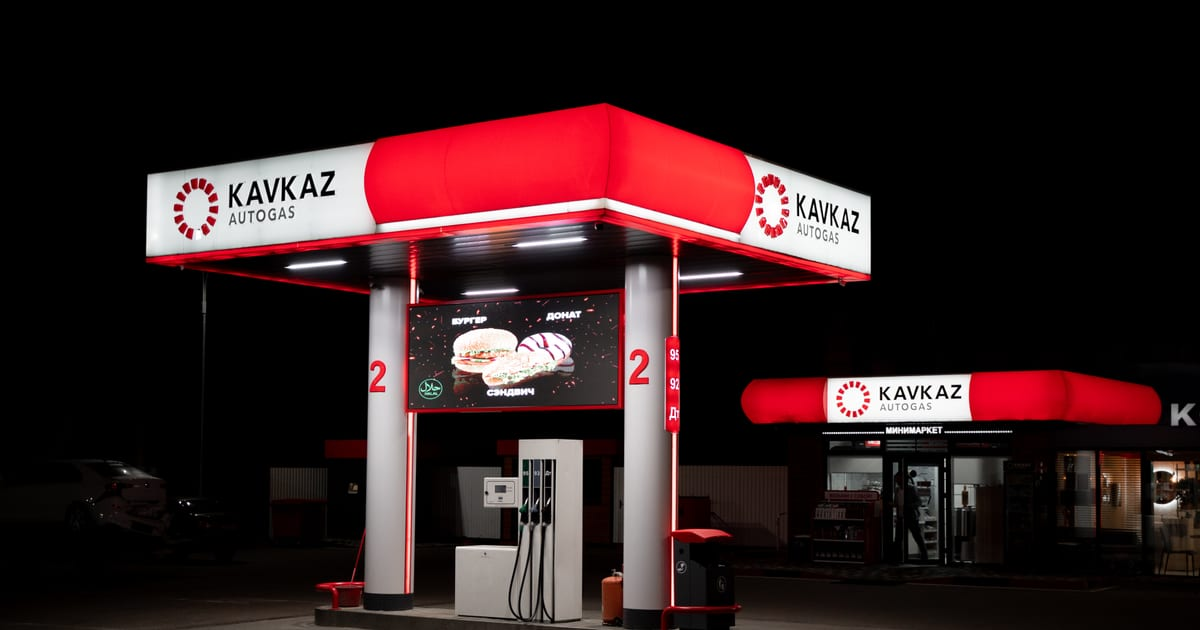
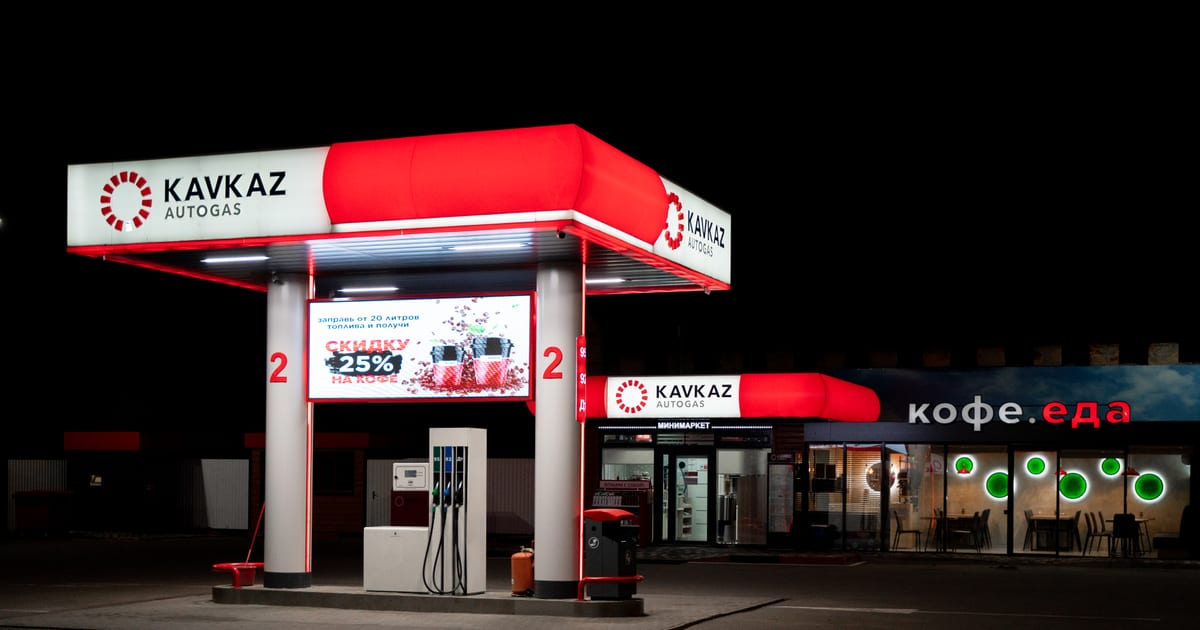
Новое hero-фото: станция с минимаркетом «кофе.еда» ночью
Исходник 7544px/16,6МБ → 2400px/235КБ; OG-изображение для соцсетей
перегенерировано из нового кадра; точка фокуса смещена к навесу
для корректного кадрирования на мобильных.

Claude-Session: https://claude.ai/code/session_01Gh9QbCEWFVJwkia1Ly7YP4

diff --git a/src/data/images.ts b/src/data/images.ts
@@ -30,10 +30,10 @@ export const images: Record<
   MediaSlotData
 > = {
   hero: {
-    src: "/images/hero-station-night.jpg",
-    alt: "Станция сети «Кавказ-Автогаз» ночью: подсвеченный навес с фирменным логотипом и минимаркет",
+    src: "/images/hero-station-night-2.jpg",
+    alt: "Станция сети «Кавказ-Автогаз» ночью: подсвеченный навес и минимаркет с кафе",
     placeholderLabel: "Фото: станция «Кавказ-Автогаз», вечер",
-    focal: "50% 42%",
+    focal: "38% 45%",
   },
 
   infrastructure: {
